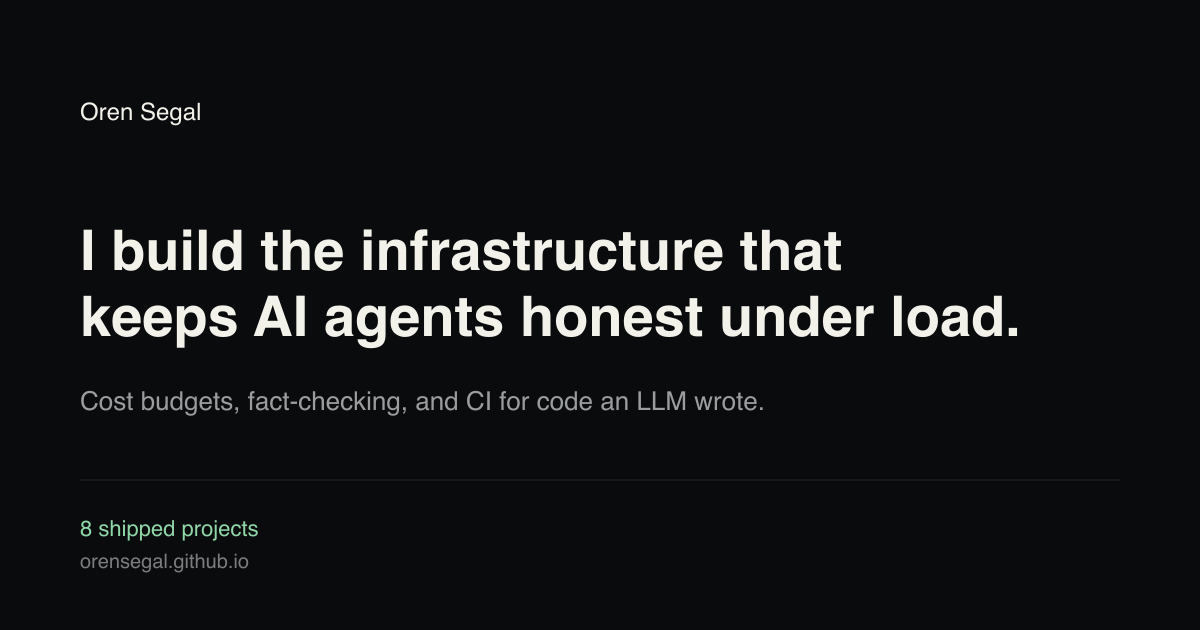
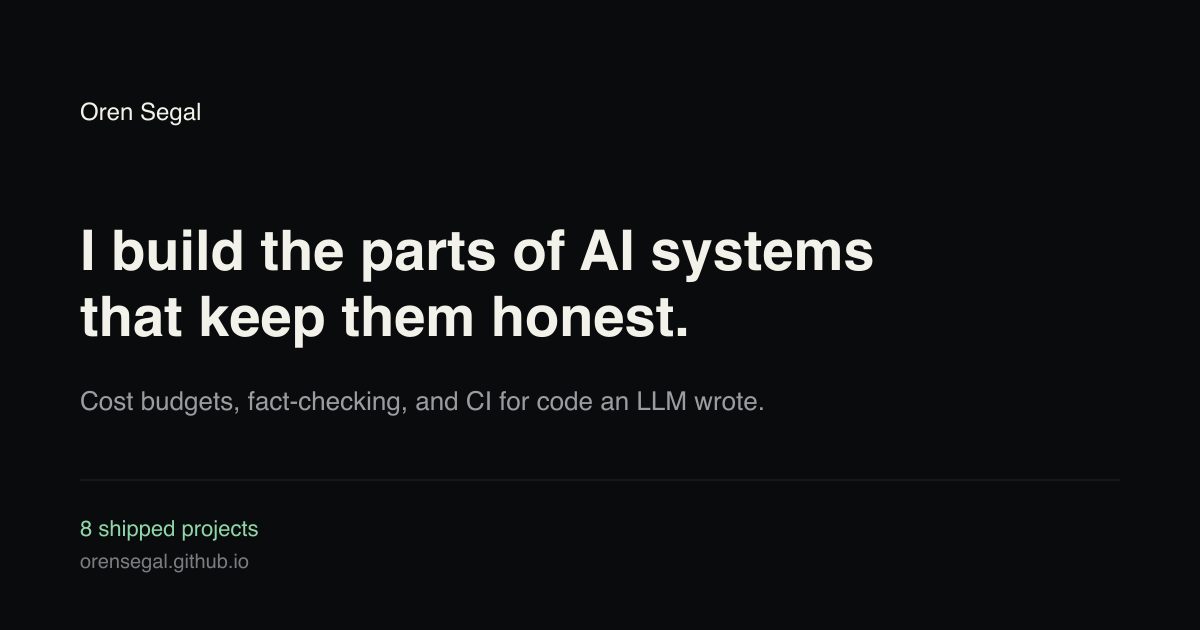
Rewrite copy to remove em-dashes and generic AI-toned phrasing
Hero, About, Projects, and lib/projects.ts read as templated LLM
output: em-dashes everywhere, "Not X. Y." fragments, and the same
"Turns X into Y" / "That means A instead of B, instead of C" shape
repeated across projects. Rewrote all of it in plain, varied prose
while keeping every factual claim identical. Regenerated the OG
image to match the new hero copy.

Claude-Session: https://claude.ai/code/session_013yYiEyNaArM5R7XCHwJ99r

Changed region(s): [[0.0617, 0.3619, 0.8633, 0.573]]

diff --git a/lib/projects.ts b/lib/projects.ts
@@ -35,7 +35,7 @@ export const projects: Project[] = [
     icon: '🎯',
     keyFeatures: [
       'Turns a startup URL into a ranked shortlist of prospects, segments, and companies',
-      'Every claim is backed by a public, checkable source — no fabricated signals',
+      'Every claim is backed by a public, checkable source, so nothing in the report is fabricated',
       'Shared, deterministic report renderer reused across the whole skill family',
       'Ships as a standalone Claude Code / OpenCode plugin',
     ],
@@ -44,7 +44,7 @@ export const projects: Project[] = [
     flightLog: {
       problem: 'LLM-generated market research reads well but is routinely wrong: a model will confidently name a "prospect" or cite a "signal" that isn\'t actually there when you go look. For go-to-market research specifically, a fabricated lead costs real outreach time before anyone notices.',
       decisions: [
-        'Built verify_sources.py as a hard gate: it re-fetches every cited source and confirms the claimed evidence is actually present on the page before a claim is allowed into the report — no claim ships unchecked.',
+        'Built verify_sources.py as a hard gate: it re-fetches every cited source and confirms the claimed evidence is actually on the page before a claim is allowed into the report. Nothing ships unchecked.',
         'Extracted the report rendering into a shared, deterministic component reused across the whole skill family, so formatting bugs and prompt drift get fixed once instead of per-skill.',
         'Shipped as a standalone Claude Code / OpenCode plugin rather than a hosted service, so it runs against a user\'s own Claude Code session with no separate backend to operate.',
       ],
@@ -66,7 +66,7 @@ export const projects: Project[] = [
     keyFeatures: [
       'Routes each prospect type (individual, segment, company) to the right output format',
       'Drafts outreach sequences, content briefs, and BD pitches from real research, not templates',
-      'Human-in-the-loop by design — drafts only, nothing is sent automatically',
+      'Human-in-the-loop by design: it only drafts, it never sends anything on its own',
       'Companion skill to signal-scout, packaged as its own plugin (signal-outreach)',
     ],
     techStack: ['Python', 'Claude Code Skills'],
@@ -76,7 +76,7 @@ export const projects: Project[] = [
     id: 'llm-gateway-kit',
     title: 'LLM Gateway Kit',
     subtitle: 'Cost-Safe LLM Gateway for Swift Apps',
-    description: 'Semantic and vision response caching, tiered circuit breakers, and hard cost-budget enforcement for Swift LLM apps — so a runaway prompt loop can’t blow through your API budget.',
+    description: 'Semantic and vision response caching, tiered circuit breakers, and hard cost-budget enforcement for Swift LLM apps, built so a runaway prompt loop can’t blow through your API budget.',
     tags: ['LLM Infra', 'Swift', 'Cost Control', 'Reliability'],
     category: 'ai-infra',
     image: '🛡',
@@ -96,7 +96,7 @@ export const projects: Project[] = [
       problem: 'A shipping iOS app calling LLM APIs directly has no natural circuit breaker: a retry storm, a redundant vision call, or a provider outage can burn through a monthly budget in hours, and usage dashboards only tell you after the money is gone.',
       decisions: [
         'Added semantic and vision response caching so near-duplicate prompts and images don\'t re-trigger a full paid call.',
-        'Built tiered circuit breakers that degrade gracefully — falling back tier by tier — instead of a binary up/down switch when a provider misbehaves.',
+        'Built tiered circuit breakers that fall back tier by tier when a provider misbehaves, instead of a binary up/down switch.',
         'Enforced cost budgets as a hard ceiling in the gateway itself, not as a downstream alert on a usage log, so the limit holds even if nobody is watching.',
       ],
       outcome: 'Measurably cut LLM inference cost by 40-50% in a real shipping iOS app, while removing runaway-cost risk as an operational concern.',
@@ -106,7 +106,7 @@ export const projects: Project[] = [
     id: 'verify-before-ship',
     title: 'Verify Before Ship',
     subtitle: 'Catches AI-Fabricated Claims Before a Human Sees Them',
-    description: 'Re-fetches every cited source and verifies containment before an AI-generated claim reaches a human reviewer — a fact-checking gate for anything an LLM writes with citations.',
+    description: 'A fact-checking gate for anything an LLM writes with citations: re-fetches every cited source and verifies the claim is actually there before it reaches a human reviewer.',
     tags: ['AI Reliability', 'Fact-Checking', 'Python'],
     category: 'ai-infra',
     image: '🔍',
@@ -120,22 +120,22 @@ export const projects: Project[] = [
       'Runs as a pre-publish gate, not a post-hoc audit',
     ],
     techStack: ['Python'],
-    impact: 'Turns "the model cited a source" into a verified, checkable claim before it ships.',
+    impact: '"The model cited a source" becomes a verified, checkable claim before it ships, not an assumption.',
     flightLog: {
       problem: 'Signal Scout\'s source-verification step proved the pattern worked for one skill, but every other project generating AI text with citations needed the same guarantee, and copy-pasting the check into each one meant fixing the same fabrication bugs repeatedly.',
       decisions: [
         'Generalized the containment-checking methodology out of signal-scout into a standalone tool, so any LLM-writing pipeline can adopt it as a dependency instead of reimplementing it.',
         'Made it a pre-publish gate rather than a post-hoc audit: a flagged citation blocks the claim before a human reviewer sees it, not after.',
-        'Kept the check narrow and deterministic — re-fetch the source, confirm the claim is actually contained in it — rather than asking another model to grade the first model\'s honesty.',
+        'Kept the check narrow and deterministic: re-fetch the source, confirm the claim is actually in it, rather than asking another model to grade the first model\'s honesty.',
       ],
-      outcome: 'Gives any project that generates cited claims a reusable, pre-publish fact-checking gate instead of a one-off script bolted onto a single skill.',
+      outcome: 'Any project that generates cited claims can now pull in a reusable, pre-publish fact-checking gate instead of bolting a one-off script onto a single skill.',
     },
   },
   {
     id: 'metropulse-nyc',
     title: 'MetroPulse NYC',
     subtitle: 'Behavioral Archetypes for NYC Subway Stations',
-    description: 'Segments every NYC subway station into behavioral archetypes using a serverless lakehouse — real ridership, geospatial, and demographic data, no synthetic inputs.',
+    description: 'Segments every NYC subway station into behavioral archetypes using a serverless lakehouse: real ridership, geospatial, and demographic data, no synthetic inputs.',
     tags: ['Data Engineering', 'Geospatial', 'Lakehouse'],
     category: 'data-engineering',
     image: '🚇',
@@ -146,10 +146,10 @@ export const projects: Project[] = [
     keyFeatures: [
       'Serverless lakehouse pipeline: Dagster orchestration, DuckDB + Polars for transforms',
       'FastAPI service layer over the resulting station archetypes',
-      'Fully geospatial — every station segmented on real MTA + neighborhood data',
+      'Fully geospatial: every station segmented on real MTA and neighborhood data',
     ],
     techStack: ['Python', 'Dagster', 'DuckDB', 'Polars', 'FastAPI'],
-    impact: 'Turns raw transit + geospatial data into station-level behavioral segments end to end.',
+    impact: 'Handles the full pipeline from raw transit and geospatial data to station-level behavioral segments.',
   },
   {
     id: 'signal-skills',
@@ -169,13 +169,13 @@ export const projects: Project[] = [
       'A shared, SSOT-verified report renderer keeps all six plugins visually consistent',
     ],
     techStack: ['Python', 'Claude Code Skills'],
-    impact: 'Turns "mine this when I remember to ask" into a compounding, queryable corpus.',
+    impact: 'Replaces "mine this when I remember to ask" with a corpus that keeps compounding on its own.',
   },
   {
     id: 'architecture-lint',
     title: 'Architecture Lint',
     subtitle: 'Config-Driven Module Boundary Linter',
-    description: 'A config-driven module boundary linter with a ratchet baseline — enforce architecture rules on a legacy codebase without a big-bang cleanup first.',
+    description: 'A config-driven module boundary linter with a ratchet baseline, for enforcing architecture rules on a legacy codebase without a big-bang cleanup first.',
     tags: ['Developer Tools', 'Static Analysis', 'CI/CD'],
     category: 'dev-tools',
     image: '🧱',
@@ -195,7 +195,7 @@ export const projects: Project[] = [
     id: 'litmus',
     title: 'Litmus',
     subtitle: 'Red/Green CI for Prompt-Ware',
-    description: 'Deterministic checks wrapped around self-graded model output — CI for the behavior a skill’s scripts alone can’t verify.',
+    description: 'CI for the behavior a skill’s scripts alone can’t verify: deterministic checks wrapped around self-graded model output.',
     tags: ['AI Testing', 'CI/CD', 'Python'],
     category: 'dev-tools',
     image: '🧪',
@@ -209,7 +209,7 @@ export const projects: Project[] = [
       'Designed to run in CI alongside normal unit tests',
     ],
     techStack: ['Python'],
-    impact: 'Gives prompt-based skills the same red/green CI discipline as regular code.',
+    impact: 'Prompt-based skills get the same red/green CI discipline as regular code.',
   },
 ]
 

diff --git a/components/Hero.tsx b/components/Hero.tsx
@@ -7,21 +7,22 @@ export default function Hero() {
     <section className="flex min-h-screen flex-col justify-center px-4 pt-24 sm:px-6">
       <div className="mx-auto w-full max-w-3xl animate-rise">
         <h1 className="max-w-2xl text-3xl font-medium leading-[1.15] text-ink sm:text-4xl">
-          I build the infrastructure that keeps AI agents honest under load — cost
-          budgets, fact-checking, and CI for code an LLM wrote.
+          I build the parts of AI systems that keep them honest once real money
+          and real users show up: cost budgets, fact-checking, CI for code an
+          LLM wrote.
         </h1>
         <p className="mt-6 max-w-xl text-lg leading-relaxed text-ink-dim">
-          Not demos. {projects.length} shipped projects, each with a public repo,
-          real tests, and green CI —{' '}
+          {projects.length} shipped projects so far, each with a public repo and
+          real tests behind it.{' '}
           <a
             href="https://github.com/OrenSegal?tab=repositories"
             target="_blank"
             rel="noopener noreferrer"
             className="text-ink underline decoration-accent-dim underline-offset-4 transition-colors hover:decoration-accent"
           >
-            {githubStats.openSourcePercent}% of it open source, verifiable on GitHub
+            {githubStats.openSourcePercent}% of it is open source
           </a>
-          .
+          , so you can check that against my claims instead of taking my word for it.
         </p>
 
         <a

diff --git a/components/About.tsx b/components/About.tsx
@@ -11,16 +11,17 @@ export default function About() {
 
         <div className="max-w-2xl space-y-5 text-lg leading-relaxed text-ink-dim">
           <p>
-            Most AI demos die the moment they hit a real cost budget or a fabricated
-            citation. I care about the layer underneath the prompt — the part that
-            turns a clever call to a model into a system you can actually run in
-            production and trust.
+            Most AI demos fall apart the first time they meet a real cost budget
+            or a citation nobody checked. I work on the part underneath the
+            prompt: the plumbing that turns a clever model call into something
+            you can run in production without babysitting it.
           </p>
           <p>
-            That means cost enforcement instead of usage dashboards, fact-checking
-            gates instead of hoping the model didn&apos;t hallucinate, and CI written for
-            behavior a script alone can&apos;t verify. Every project on this site ships as
-            a complete, open-source system — repo, tests, green CI — not a notebook.
+            In practice that&apos;s enforcing cost limits instead of just logging
+            usage, re-verifying citations instead of hoping the model told the
+            truth, and writing CI for behavior a script alone can&apos;t check.
+            Every project here ships as a full open-source system: repo, tests,
+            green CI, not a notebook someone ran once.
           </p>
         </div>
 

diff --git a/components/Projects.tsx b/components/Projects.tsx
@@ -41,11 +41,11 @@ function ProjectRow({ project }: { project: Project }) {
       {project.flightLog && (
         <div className="mt-4 max-w-2xl space-y-2 border-l border-line pl-4 text-sm leading-relaxed text-ink-dim">
           <p>
-            <span className="text-ink-faint">Problem — </span>
+            <span className="text-ink-faint">Problem: </span>
             {project.flightLog.problem}
           </p>
           <p>
-            <span className="text-ink-faint">Outcome — </span>
+            <span className="text-ink-faint">Outcome: </span>
             {project.flightLog.outcome}
           </p>
         </div>

diff --git a/app/layout.tsx b/app/layout.tsx
@@ -19,7 +19,7 @@ export const metadata: Metadata = {
     title: 'Oren Segal | AI Platform Engineer',
     description: 'Shipped AI agent, LLM infrastructure, and data engineering projects',
     type: 'website',
-    images: [{ url: '/og-image.png', width: 1200, height: 630, alt: 'Oren Segal — AI Platform Engineer' }],
+    images: [{ url: '/og-image.png', width: 1200, height: 630, alt: 'Oren Segal, AI Platform Engineer' }],
   },
   twitter: {
     card: 'summary_large_image',
